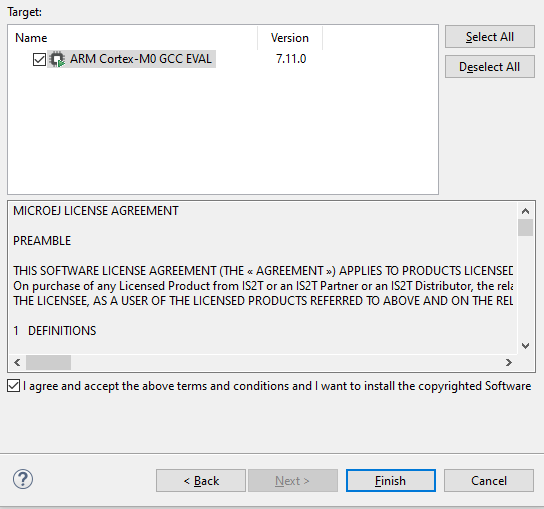
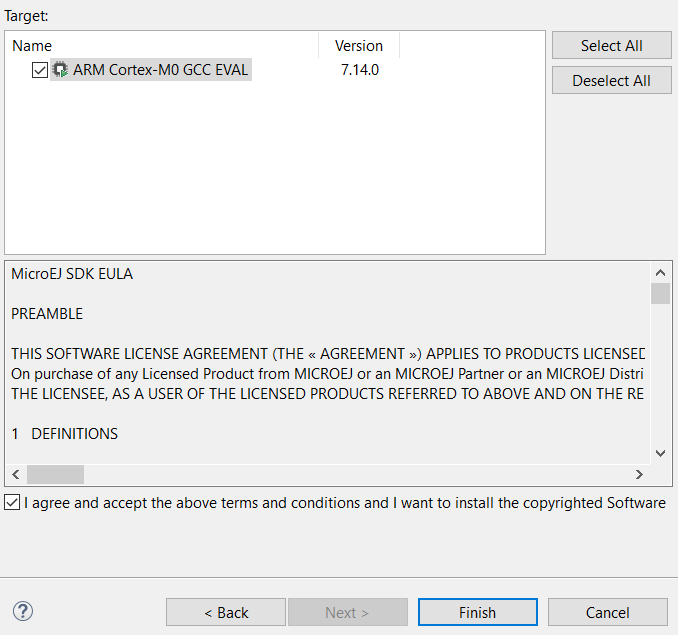
M0127CC-641 Update MicroEJ Architecture to the latest 7.14 * Update the 2 related pictures

Changed region(s): [[0.0, 0.0, 1.0, 0.8251], [0.0, 0.8841, 1.0, 1.0], [0.4688, 0.0589, 0.5938, 0.1473]]

diff --git a/Tutorials/tutorialCreateFirmwareFromScratch.rst b/Tutorials/tutorialCreateFirmwareFromScratch.rst
@@ -425,7 +425,7 @@ This step describes how to import a :ref:`MicroEJ Architecture
    select it.
 #. Keep the default MicroEJ Repository
 #. Download the latest MicroEJ Architecture for Arm® Cortex®-M0
-   instead: https://repository.microej.com/architectures/com/microej/architecture/CM0/CM0_GCC48/flopi0G22/7.11.0/flopi0G22-7.11.0-eval.xpf
+   instead: https://repository.microej.com/architectures/com/microej/architecture/CM0/CM0_GCC48/flopi0G22/7.14.0/flopi0G22-7.14.0-eval.xpf
 #. Import the MicroEJ Architecture in MicroEJ SDK
 
    #. :guilabel:`File` > :guilabel:`Import` > :guilabel:`MicroEJ` >
